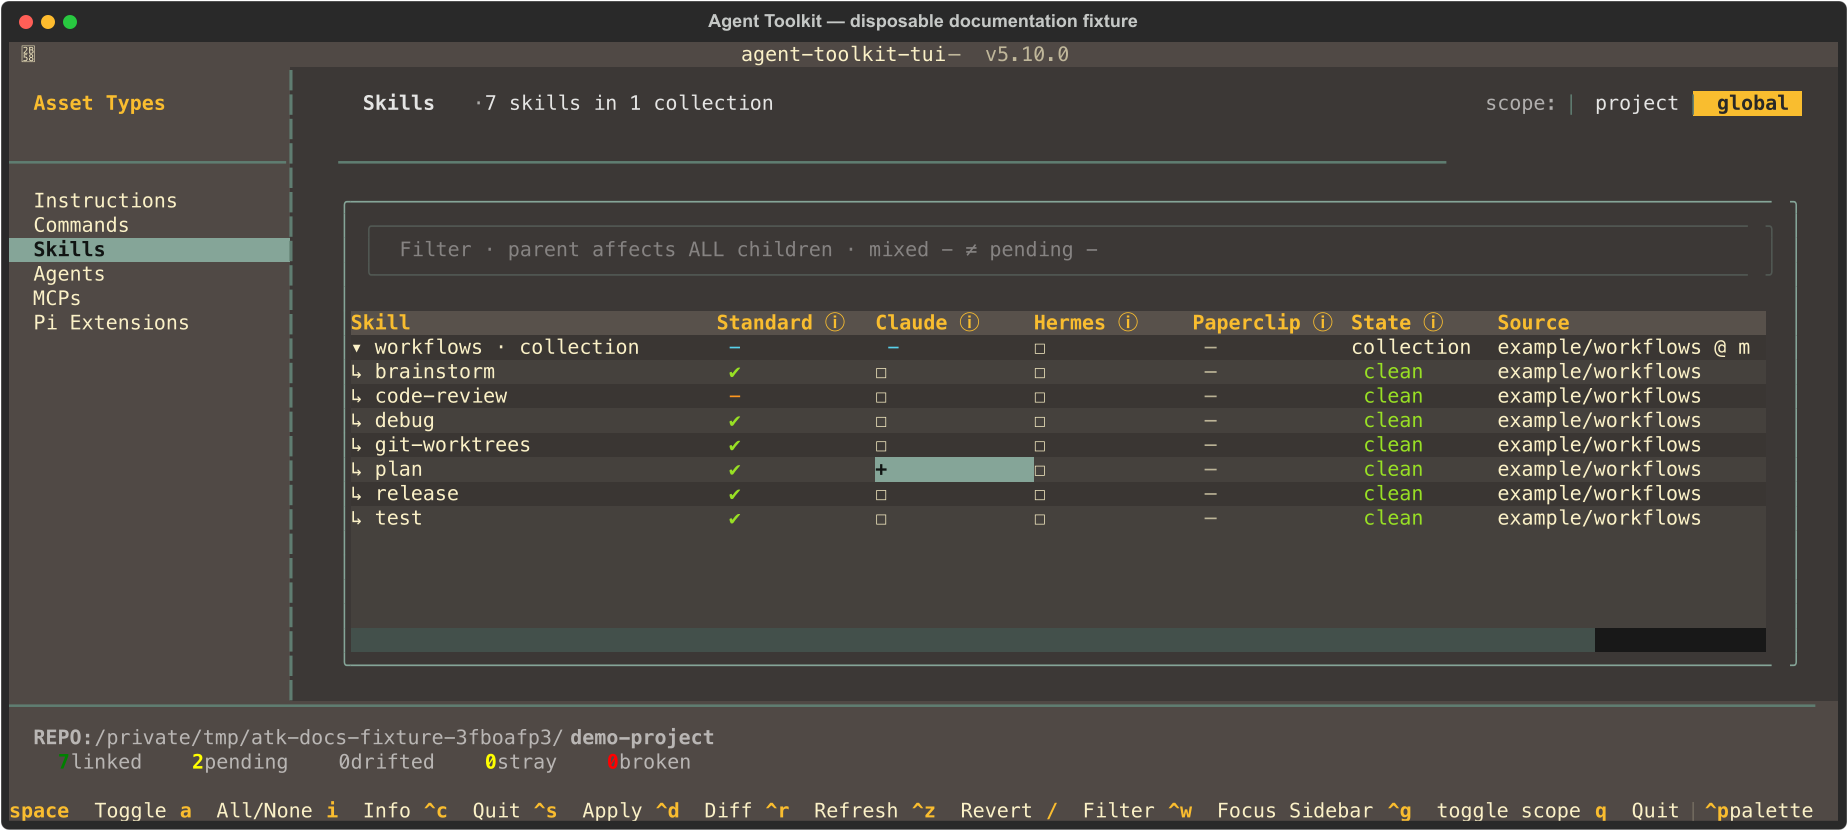
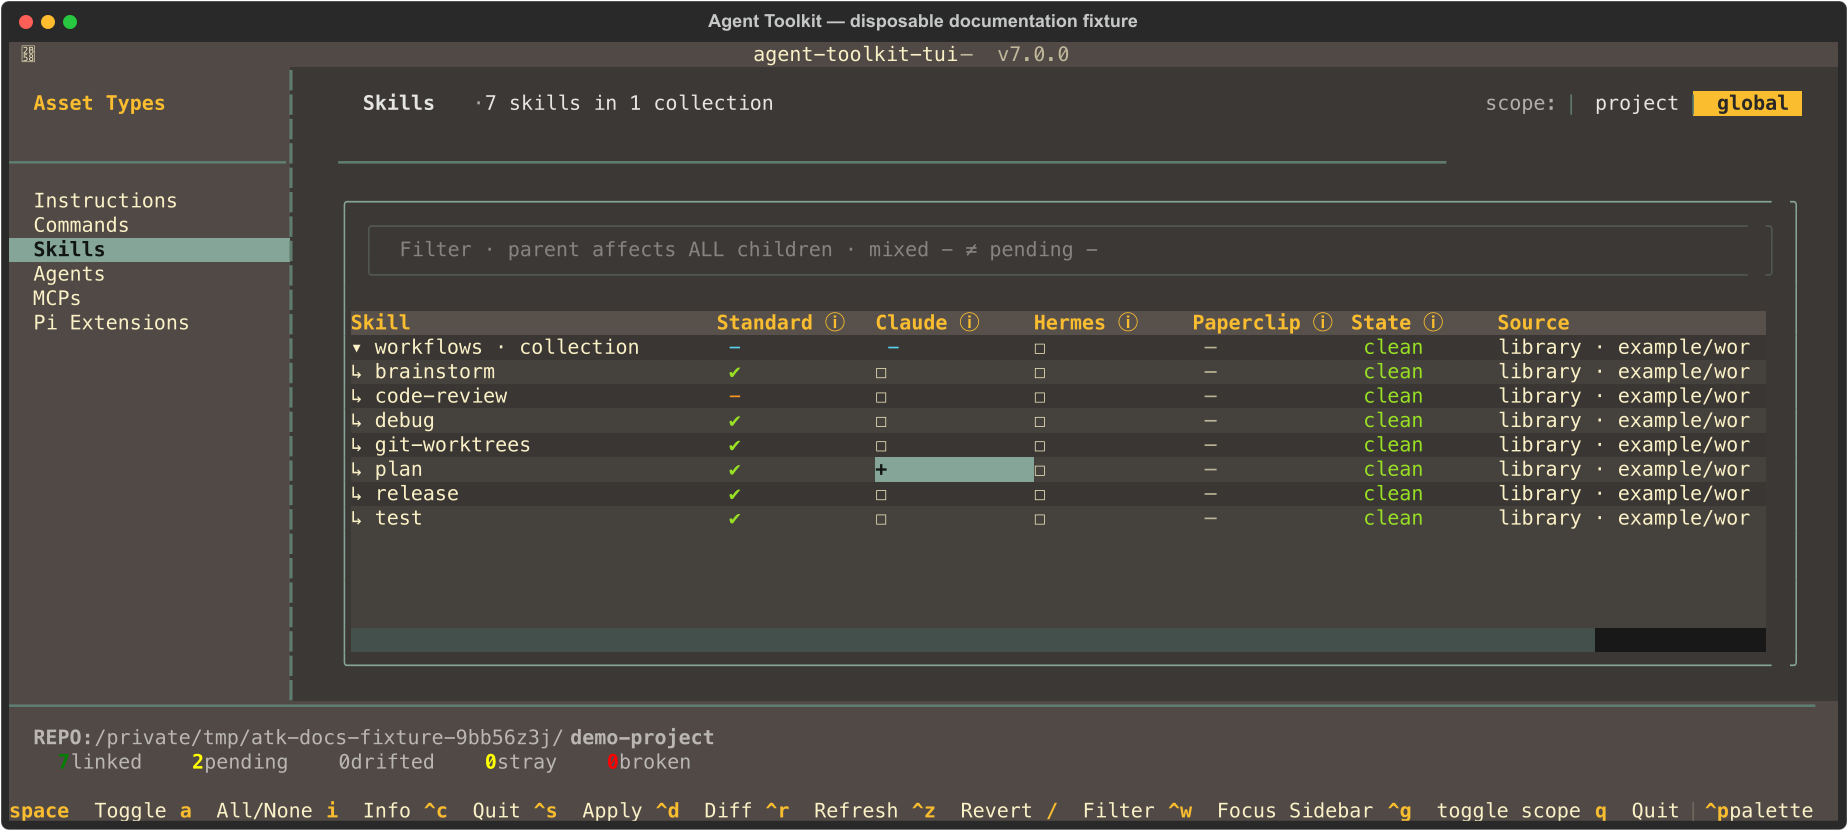
chore(main): release 7.0.0
* chore(main): release 7.0.0

* docs: refresh the source-verified 7.0.0 TUI screenshot

---------

Changed region(s): [[0.7403, 0.3911, 0.9562, 0.6318], [0.401, 0.0602, 0.5552, 0.0903], [0.2468, 0.8724, 0.3084, 0.9025]]

diff --git a/CHANGELOG.md b/CHANGELOG.md
@@ -1,5 +1,35 @@
 # Changelog
 
+## [7.0.0](https://github.com/ajanderson1/agent-toolkit-cli/compare/v6.1.0...v7.0.0) (2026-10-25)
+
+
+### Features
+
+* **skills:** check Git library revisions independently of catalog ([9d5f24f](https://github.com/ajanderson1/agent-toolkit-cli/commit/9d5f24f49766ef2743138b5ff5794591fc708eba))
+* **skills:** fold advertised and library children into collections ([14ad844](https://github.com/ajanderson1/agent-toolkit-cli/commit/14ad844dd18fd79790e6f4ede20d8fab09b37390))
+* **skills:** merge expanded catalog collections ([79caf00](https://github.com/ajanderson1/agent-toolkit-cli/commit/79caf00deeb1092c3087d1e177e20f42486b55d0))
+
+
+### Bug Fixes
+
+* **skills:** honor pinned resets and isolate child dirty state ([16bc02c](https://github.com/ajanderson1/agent-toolkit-cli/commit/16bc02c278238a3894f4c9bc6a063855e0a85220))
+* **skills:** isolate catalog collection apply failures ([bed75d6](https://github.com/ajanderson1/agent-toolkit-cli/commit/bed75d6d65d72c4dc2accf01565d15238bb54aab))
+* **skills:** journal preserved canonical collection projections ([cea677c](https://github.com/ajanderson1/agent-toolkit-cli/commit/cea677c6fa73c3cdbfe4a679357e550e576c9ff2))
+* **tui:** preserve exact skill collection selection intents ([f0ce2e7](https://github.com/ajanderson1/agent-toolkit-cli/commit/f0ce2e7b647018b01f4a5387e3fbc0539c9dbb84))
+
+
+### Documentation
+
+* **catalog:** plan expandable advertised skill collections ([05c930a](https://github.com/ajanderson1/agent-toolkit-cli/commit/05c930a162f6028cc25706eb4f4d8db903ce1ce6))
+* **catalog:** record collection verification and review ([f76837f](https://github.com/ajanderson1/agent-toolkit-cli/commit/f76837fab743bf86f7d18832090b0c2b7d44dfe5))
+* **catalog:** specify agents commands and Pi extension discovery ([5875b54](https://github.com/ajanderson1/agent-toolkit-cli/commit/5875b5426e28e6ecc46c3a9e4818db228a1dd899))
+* explain 7.0 collections, lifecycle terms and upgrades ([d2519be](https://github.com/ajanderson1/agent-toolkit-cli/commit/d2519beeec5b3afab1fe3ca1c3e6139525b7d7d0))
+
+
+### Build
+
+* **release:** synchronize root lock versions through ReleasePlease ([f3e1b13](https://github.com/ajanderson1/agent-toolkit-cli/commit/f3e1b13eba061ebd53c7fb8d848fd1ec976fb0e8))
+
 ## [6.1.0](https://github.com/ajanderson1/agent-toolkit-cli/compare/v6.0.0...v6.1.0) (2026-10-25)
 
 
